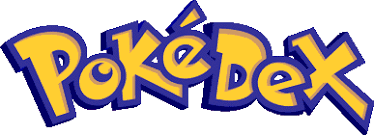
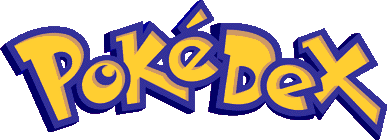
pokedex topo

diff --git a/index.html b/index.html
@@ -18,11 +18,12 @@
     <title>Pokedéx</title>
 </head>
 <body>
+    <header>
+        <img src="src/imagens/pokedex.png" alt="Pokédex" class="header">
+    </header>
     <main>
         <div class="pokedex">
             <div class="cartoes-pokemon">
-
-                
 
                 <div class="cartao-pokemon aberto tipo-grama" id="cartao-bulbasaur">
                     <div class="cartao-topo">

diff --git a/src/css/global.css b/src/css/global.css
@@ -18,6 +18,17 @@ main {
     padding: 30px 0;
 }
 
+header {
+    background-color: #353535;
+}
+
+header img{
+    display: flex;
+    margin: auto;
+    margin-bottom: -40px;
+    padding-top: 10px;
+}
+
 footer, a {
     min-height: 10vh;
     text-align: center;
